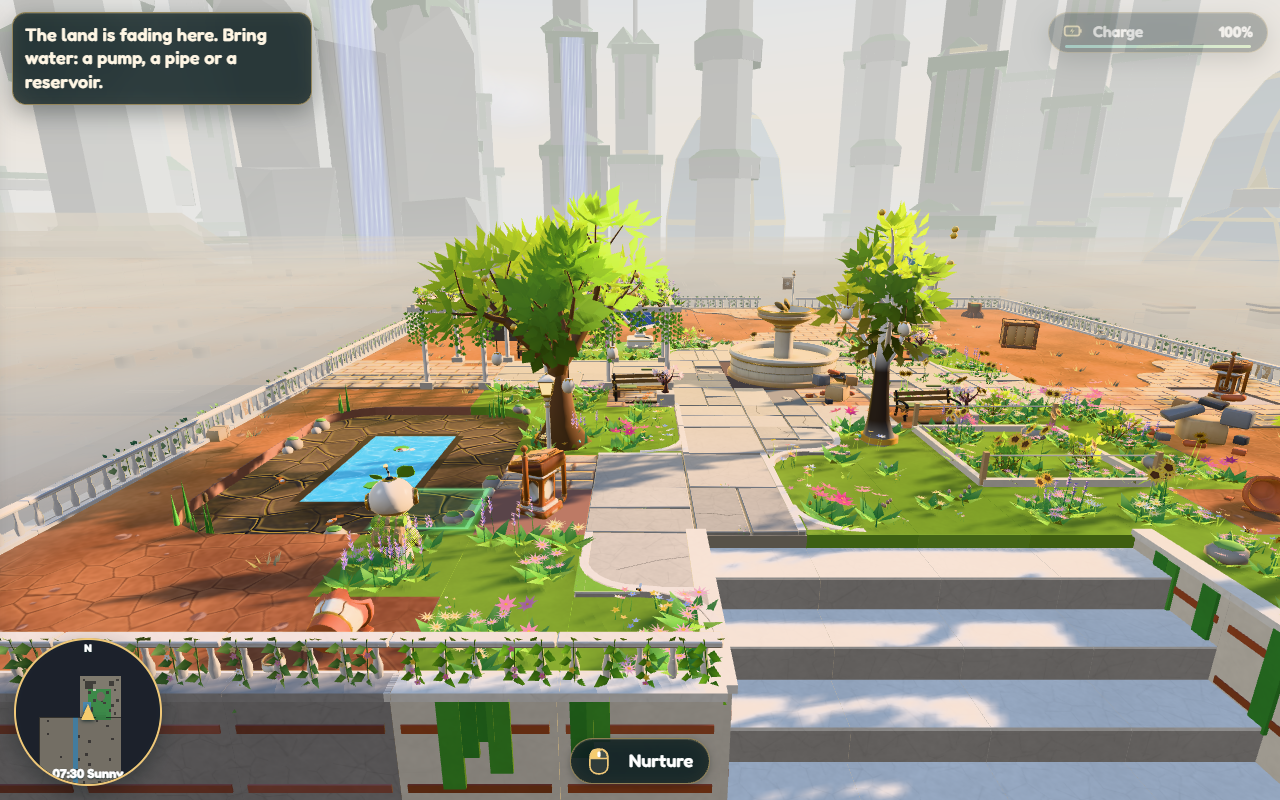
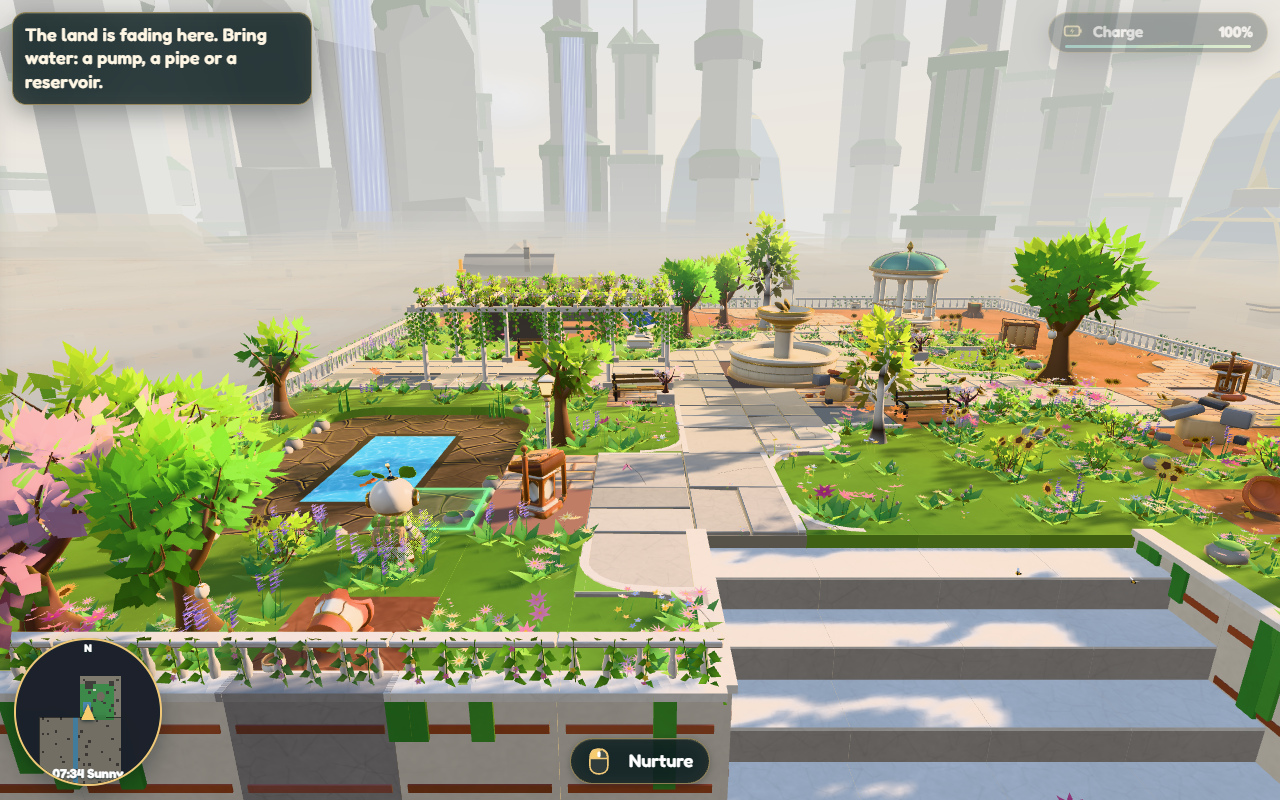
E23.4.4: the lawn colour, trees, butterflies and pollinators read the faded stage, not the tile's own; pond shots wait for the rebuild, every bank lush

diff --git a/tests/water-fade.test.ts b/tests/water-fade.test.ts
@@ -6,6 +6,12 @@ import { WATER_NET } from '../src/data/water';
 import { Sim } from '../src/gameplay/Sim';
 import { WaterSystem } from '../src/gameplay/WaterSystem';
 import { TUNING } from '../src/data/tuning';
+import * as pc from 'playcanvas';
+import { turfTop, type DressCtx } from '../src/rendering/Surfaces';
+import { treeStage } from '../src/rendering/TreePlacement';
+import { Butterflies } from '../src/rendering/Butterflies';
+import { Pollinators } from '../src/rendering/Pollinators';
+import { initLowPoly } from '../src/rendering/Shapes';
 
 /** the lushest bloom (the land starts there: the fade has to take all of it back to plain restored ground) */
 const LUSH = TUNING.restore.maxBloom;
@@ -175,6 +181,73 @@ describe('E23.4.4: land fades around low water', () => {
     sim.water.fill(body.id, 1); // a level changes: the next read refreshes once
     for (const t of land) sim.water.bloomShown(t);
     expect(builds).toBe(1);
+  });
+
+  it("the lawn, trees, butterflies and pollinators all show the faded stage, not the tile's own", () => {
+    const { sim, land, body } = park();
+    const banks = near(sim, land, body.id).filter((t) => !t.occupantId);
+    expect(banks.length).toBeGreaterThan(0);
+    /** the lawn's corner colours for a tile, with the ground's bloom read through `bloom` (or the tile's own) */
+    const turf = (t: TileData, bloom?: (t: TileData) => number, clone = false) => {
+      let out: number[] = [];
+      const peek = (x: number, z: number) => {
+        const n = sim.grid.get(GROUND, x, z);
+        return n && clone ? { ...n, bloom: sim.water.bloomShown(n) } : n;
+      };
+      const c = { b: { grey: 0, add() {}, addGeo() {}, quad: (_p: number[], cols: number[]) => (out = cols) }, fb: { add() {} }, dens: 1, lod: 1, area: PARK, areaType: 'park', level: 4, peek, areaAt: () => PARK, bloom } as unknown as DressCtx;
+      turfTop(c, clone ? peek(t.x, t.z)! : t, 0.2);
+      return out;
+    };
+    const lush = banks.map((t) => turf(t, (n) => sim.water.bloomShown(n)));
+    sim.weather.forceForTest('sunny', Infinity);
+    sim.water.draw(body.id, body.capacity);
+    for (let i = 0; i < 24; i++) sim.water.tick(DAY / 24);
+    expect(banks.every((t) => sim.water.bloomShown(t) === 1 && t.bloom === LUSH)).toBe(true);
+    // the lawn: its colour is the faded stage's (the same as ground really at that stage), no longer the lush one
+    banks.forEach((t, i) => {
+      const faded = turf(t, (n) => sim.water.bloomShown(n));
+      expect(faded).toEqual(turf(t, undefined, true));
+      expect(faded).not.toEqual(lush[i]);
+      expect(turf(t)).toEqual(lush[i]); // (read straight from the tile it would still be lush: the bug this fixes)
+    });
+    // trees: the stage drawn is the faded one
+    for (const t of banks) {
+      expect(treeStage(t)).toBe(LUSH);
+      expect(treeStage(t, sim.water.bloomShown(t))).toBe(1);
+    }
+    // butterflies and pollinators: the faded banks are no longer flowers to visit
+    const rect = { x0: -4, x1: 20, z0: -4, z1: 20 };
+    // a headless PlayCanvas app (the insects build their meshes on it)
+    const canvas = { width: 1, height: 1, getContext: () => null, addEventListener() {}, removeEventListener() {}, style: {} };
+    const app = new pc.AppBase(canvas as unknown as HTMLCanvasElement);
+    const opts = new pc.AppOptions();
+    opts.graphicsDevice = new pc.NullGraphicsDevice(canvas as unknown as HTMLCanvasElement);
+    opts.componentSystems = [pc.RenderComponentSystem];
+    app.init(opts);
+    initLowPoly(opts.graphicsDevice);
+    const root = () => {
+      const e = new pc.Entity('root', app);
+      app.root.addChild(e);
+      return e;
+    };
+    const ids = new Set(banks.map((t) => t.id));
+    const fly = new Butterflies(sim, root());
+    const garden = (fly as unknown as { gardenTiles(r: typeof rect): TileData[] }).gardenTiles(rect);
+    expect(garden.some((t) => ids.has(t.id))).toBe(false);
+    const pol = new Pollinators(sim, root());
+    pol.update(0.1, rect);
+    expect((pol as unknown as { flowers: TileData[] }).flowers.some((t) => ids.has(t.id))).toBe(false);
+    // refilled, they come back: lush lawn, grown trees, flowers visited again
+    sim.weather.forceForTest('rain', Infinity);
+    for (let i = 0; i < 12; i++) sim.water.tick(DAY / 24);
+    banks.forEach((t, i) => expect(turf(t, (n) => sim.water.bloomShown(n))).toEqual(lush[i]));
+    expect(banks.every((t) => treeStage(t, sim.water.bloomShown(t)) === LUSH)).toBe(true);
+    const garden2 = (fly as unknown as { gardenTiles(r: typeof rect): TileData[] }).gardenTiles(rect);
+    const pol2 = new Pollinators(sim, root());
+    pol2.update(0.1, rect);
+    const flowers2 = (pol2 as unknown as { flowers: TileData[] }).flowers;
+    expect(garden2.some((t) => ids.has(t.id)) || flowers2.some((t) => ids.has(t.id))).toBe(true);
+    app.destroy();
   });
 
   it('reports the areas to repaint only when a body crosses a fade step', () => {

diff --git a/src/rendering/Surfaces.ts b/src/rendering/Surfaces.ts
@@ -47,6 +47,8 @@ export interface DressCtx {
    * while it isn't loaded (or for hidden ground): the caller then draws its procedural version.
    */
   model?(name: string, x: number, y: number, z: number, rotY: number, sx: number, sy?: number, sz?: number): boolean;
+  /** E23.4.4: the bloom stage a tile shows (its own, less any fade from low water nearby). Defaults to `t.bloom`. */
+  bloom?(t: TileData): number;
 }
 
 /**
@@ -111,7 +113,7 @@ export const STAGE_GRASS: string[][] = PALETTE.stageGrass;
 /** One of a palette list by a (possibly negative) variant: lists differ in length now that Look 2 owns them. */
 const pick = (a: string[], v: number) => a[((v % a.length) + a.length) % a.length];
 const isTurf = (t: TileData | undefined) => !!t && t.ground === 'restored' && !t.blocked && (t.feature ?? 'lawn') !== 'paving' && (t.feature ?? 'lawn') !== 'water' && (t.feature ?? 'lawn') !== 'road';
-const turfColour = (t: TileData) => lin(pick(STAGE_GRASS[Math.max(1, Math.min(4, t.bloom || 1))], t.variant));
+const turfColour = (t: TileData, bloom = t.bloom) => lin(pick(STAGE_GRASS[Math.max(1, Math.min(4, bloom || 1))], t.variant));
 
 /**
  * A restored lawn's top: one quad whose corner colours average the turf of the (up to) four tiles meeting there,
@@ -126,13 +128,13 @@ export function turfTop(c: DressCtx, t: TileData, top: number) {
     for (const [ox, oz] of [[-1, -1], [0, -1], [-1, 0], [0, 0]]) {
       const n2 = ox === 0 && oz === 0 && cx === 0 && cz === 0 ? t : c.peek(t.x + cx + ox, t.z + cz + oz);
       if (!n2 || !isTurf(n2) || c.areaAt(n2.x, n2.z) !== c.area) continue;
-      const k = turfColour(n2);
+      const k = turfColour(n2, c.bloom?.(n2));
       r += k[0];
       g += k[1];
       b += k[2];
       n++;
     }
-    const k = n ? [r / n, g / n, b / n] : turfColour(t);
+    const k = n ? [r / n, g / n, b / n] : turfColour(t, c.bloom?.(t));
     // a soft mottling across the lawn, a few tiles wide
     // Phase 6: with no blades shading it, the bare turf is a touch deeper, and the light / dark patches are stronger
     // so a big lawn reads as soft sunlit and shaded areas rather than one flat green

diff --git a/src/rendering/Pollinators.ts b/src/rendering/Pollinators.ts
@@ -163,7 +163,7 @@ export class Pollinators {
     if (this.recount <= 0) {
       this.recount = 1;
       const on = this.enabled && !!rect;
-      this.flowers = on ? tilesIn(this.sim, rect!, (t) => t.ground === 'restored' && (t.bloom >= 3 || !!t.plant) && !t.occupantId && t.feature !== 'water' && t.feature !== 'paving', 80) : [];
+      this.flowers = on ? tilesIn(this.sim, rect!, (t) => t.ground === 'restored' && (this.sim.water.bloomShown(t) >= 3 || !!t.plant) && !t.occupantId && t.feature !== 'water' && t.feature !== 'paving', 80) : [];
       this.pull = this.flowers.reduce((a, t) => a + (t.plant ? PULSE_LOAD[PLANT_LOAD[t.plant]].pollinators : 0), 0);
       this.rare = this.flowers.filter((t) => t.plant === 'rare');
       this.paving = on ? tilesIn(this.sim, rect!, (t) => t.ground === 'restored' && t.feature === 'paving' && !t.blocked, 60) : [];
@@ -171,9 +171,9 @@ export class Pollinators {
       // grown trees (saplings drop nothing): cherries shed petals, other broadleaves the odd leaf, pines nothing
       const crowns: Crown[] = [];
       if (on)
-        for (const t of tilesIn(this.sim, rect!, (t) => (treeStage(t) ?? 0) >= 2, 120)) {
+        for (const t of tilesIn(this.sim, rect!, (t) => (treeStage(t, this.sim.water.bloomShown(t)) ?? 0) >= 2, 120)) {
           const spot = treeSpot(t, type(t));
-          if (spot && spot.species !== 'pine') crowns.push({ t, spot, stage: treeStage(t)! });
+          if (spot && spot.species !== 'pine') crowns.push({ t, spot, stage: treeStage(t, this.sim.water.bloomShown(t))! }); // E23.4.4: faded by low water
         }
       this.cherries = crowns.filter((c) => c.spot.species === 'cherry').slice(0, 24);
       this.broadleaves = crowns.filter((c) => c.spot.species !== 'cherry').slice(0, 24);

diff --git a/src/rendering/ChunkRenderer.ts b/src/rendering/ChunkRenderer.ts
@@ -1075,6 +1075,7 @@ export class ChunkRenderer {
       areaAt: (x, z) => map.areaOfCell(x, z),
       slab: (hex, p, sc) => self.slab(self.sink, hex, p, sc),
       model: (name, x, y, z, rot, sx, sy, sz) => !!self.batch?.add(name, x, y, z, rot, sx, sy, sz),
+      bloom: (t) => s.water.bloomShown(t), // E23.4.4: the lawn's colour fades with low water too
     };
     // E19.1.5: this chunk's plots and their looks (decided before the tiles, which stay flat under a chosen plot)
     this.plotCells.clear();
@@ -1284,7 +1285,7 @@ export class ChunkRenderer {
     if ((t.feature ?? 'lawn') === 'water') return false;
     const spot = treeSpot(t, this.areaType);
     if (!spot) return false;
-    const stage = treeStage(t);
+    const stage = treeStage(t, this.sim.water.bloomShown(t)); // E23.4.4: trees fade with low water
     if (!stage) return false;
     if (this.growing.has(t.id)) return true;
     // Look 3.7: close-up trees at near zoom on High; the single-clump version at mid zoom and below
@@ -1316,7 +1317,7 @@ export class ChunkRenderer {
     const view = this.views.get(chunkKey(GROUND, Math.floor(t.x / CHUNK), Math.floor(t.z / CHUNK)));
     if (!view || view.far) return;
     const spot = treeSpot(t, this.sim.areas.info(this.sim.areas.areaOf(t)!).type);
-    const stage = treeStage(t);
+    const stage = treeStage(t, this.sim.water.bloomShown(t));
     if (!spot || !stage || (t.feature ?? 'lawn') === 'water') return;
     const old = this.growing.get(t.id);
     old?.e.destroy();

diff --git a/src/rendering/Butterflies.ts b/src/rendering/Butterflies.ts
@@ -45,7 +45,8 @@ export class Butterflies {
 
   /** Blooming (stage 2+) tiles in view on the ground, plus any unlocked rooftops. */
   private gardenTiles(rect: Rect | undefined): TileData[] {
-    const ok = (t: TileData) => t.ground === 'restored' && t.bloom >= 2 && !t.occupantId && t.feature !== 'water';
+    const ok = (t: TileData) => t.ground === 'restored' && this.sim.water.bloomShown(t) >= 2 && // E23.4.4: not to faded banks
+      !t.occupantId && t.feature !== 'water';
     const out = rect ? tilesIn(this.sim, rect, ok, 120) : [];
     for (const r of this.sim.grid.rooftops) if (r.unlocked && !r.preview && out.length < 160) for (const t of this.sim.grid.tilesOf(r.id)) if (ok(t)) out.push(t);
     return out;
@@ -58,7 +59,7 @@ export class Butterflies {
     const t = tiles[Math.floor(hash01(this.sim.state.seed, i, f.leg, 1) * tiles.length)];
     const [x, y, z] = this.sim.grid.tileWorld(t);
     // Land a bit higher on lush tiles (flowers / shrubs).
-    f.target.set(x + (hash01(this.sim.state.seed, i, f.leg, 2) - 0.5) * 0.5, y + SLAB_TOP + 0.12 + t.bloom * 0.1, z + (hash01(this.sim.state.seed, i, f.leg, 3) - 0.5) * 0.5);
+    f.target.set(x + (hash01(this.sim.state.seed, i, f.leg, 2) - 0.5) * 0.5, y + SLAB_TOP + 0.12 + this.sim.water.bloomShown(t) * 0.1, z + (hash01(this.sim.state.seed, i, f.leg, 3) - 0.5) * 0.5);
   }
 
   private spawn() {

diff --git a/src/rendering/TreePlacement.ts b/src/rendering/TreePlacement.ts
@@ -70,8 +70,11 @@ export function treeSpot(t: Pick<TileData, 'x' | 'z' | 'feature' | 'blocked'>, a
   };
 }
 
-/** The growth stage a tile shows (undefined: nothing grows there yet). */
-export function treeStage(t: Pick<TileData, 'ground' | 'bloom' | 'occupantId'>): TreeStage | undefined {
+/**
+ * The growth stage a tile shows (undefined: nothing grows there yet). `bloom` is the stage the tile shows, which
+ * low water nearby can fade (E23.4.4: pass `sim.water.bloomShown(t)`); it defaults to the tile's own.
+ */
+export function treeStage(t: Pick<TileData, 'ground' | 'bloom' | 'occupantId'>, bloom = t.bloom): TreeStage | undefined {
   if (t.ground !== 'restored' || t.occupantId) return undefined;
-  return Math.max(1, Math.min(4, t.bloom || 1)) as TreeStage;
+  return Math.max(1, Math.min(4, bloom || 1)) as TreeStage;
 }

diff --git a/src/app/Game.ts b/src/app/Game.ts
@@ -734,7 +734,7 @@ export class Game {
       for (let tx = Math.floor(f.x - R); tx <= f.x + R; tx++) {
         const t = this.sim.grid.get(GROUND, tx, tz);
         if (!t || t.feature === 'water') continue;
-        const stage = treeStage(t);
+        const stage = treeStage(t, this.sim.water.bloomShown(t)); // E23.4.4: a faded tree sheds like its stage
         if (!stage || stage < 2) continue;
         const area = this.sim.areas.areaOf(t);
         const spot = area ? treeSpot(t, this.sim.areas.info(area).type) : undefined;
